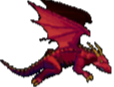
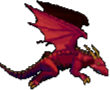
finished the game

diff --git a/menu.py b/menu.py
@@ -1,0 +1,58 @@
+from obj import Obj, Text
+import pygame
+
+class Menu:
+
+    def __init__(self):
+        self.all_sprites = pygame.sprite.Group()
+
+        self.bg = Obj("assets/bg/layer_1.png", -180, 0, 320 * 3.6, 180 * 3.6, self.all_sprites)
+
+        self.bg_2 = Obj("assets/bg/layer_2.png", 0, 260, 320 * 2, 131 * 2, self.all_sprites)
+        self.bg_2_1 = Obj("assets/bg/layer_2.png", 640, 260, 320 * 2, 131 * 2, self.all_sprites)
+
+        self.ground = Obj("assets/ground.png", 0, 400, 360, 360, self.all_sprites)
+        self.ground_2 = Obj("assets/ground.png", 360, 400, 360, 360, self.all_sprites)
+
+        self.get_ready = Obj("assets/getready.png", 80, 140, 615/3, 141/3, self.all_sprites)
+        self.table_score = Obj("assets/score.png", 50, 230, 523/2, 361/2, self.all_sprites)
+        self.button_go = Obj("assets/go.png", 120, 415, 439/4, 181/4, self.all_sprites)
+
+        self.change_scene = False
+
+        self.text_score = Text(100, "0")
+
+    def draw(self, window):
+        self.all_sprites.draw(window)
+        self.text_score.draw(window, 145, 290)
+
+    def update(self, pts):
+        self.all_sprites.update()
+        self.move_bg()
+        self.text_score.text_update(pts)
+
+    def events(self,event):
+        if event.type == pygame.MOUSEBUTTONUP:
+            if self.button_go.rect.collidepoint(pygame.mouse.get_pos()):
+                self.change_scene = True
+
+        if event.type == pygame.KEYDOWN:
+            if event.key == pygame.K_SPACE:
+                self.change_scene = True
+
+
+    def move_bg(self):
+        self.bg_2.rect.x -= 1
+        self.bg_2_1.rect.x -= 1
+        if self.bg_2.rect.x <= -640:
+            self.bg_2.rect.x = 0
+        if self.bg_2_1.rect.x <= 0:
+            self.bg_2_1.rect.x = 640
+
+        self.ground.rect.x -= 5
+        self.ground_2.rect.x -= 5
+
+        if self.ground.rect.x <= -360:
+            self.ground.rect.x = 0
+        if self.ground_2.rect.x <= 0:
+            self.ground_2.rect.x = 360

diff --git a/game.py b/game.py
@@ -18,11 +18,16 @@ class Game:
         self.ground = Obj("assets/ground.png", 0, 400, 360, 360, self.all_sprites)
         self.ground_2 = Obj("assets/ground.png", 360, 400, 360, 360, self.all_sprites)
 
-        self.dragon = Dragon("assets/dragons/dragon1.png", 10, 230, 144, 90, self.all_sprites)
+        self.dragon = Dragon("assets/dragons/dragon0.png", 10, 230, 110, 90, self.all_sprites)
 
         self.score = Text(100, str(self.dragon.pts))
 
+        self.change_scene = False
+
         self.ticks = 0
+        self.timer = 0
+        self.max_score = 0
+        self.check_score()
 
     def draw(self, window):
         self.all_sprites.draw(window)
@@ -30,13 +35,16 @@ class Game:
 
     def update(self):
         self.move_bg()
-        self.all_sprites.update()
 
         if self.dragon.play:
             self.spawn_towers()
             self.dragon.collision_towers(self.towers_group)
             self.dragon.collision_coin(self.coin_group)
             self.score.text_update(str(self.dragon.pts))
+            self.all_sprites.update()
+        else:
+            self.max_scores()
+            self.gameover()
 
     def move_bg(self):
         self.bg_2.rect.x -= 1
@@ -63,3 +71,19 @@ class Game:
             tower_2 = Tower("assets/tower2.png", 360, tower.rect.y - 680, 82, 440, self.all_sprites, self.towers_group)
             coin = Coin("assets/coin/coin0.png", 395, tower.rect.y - 110, 17*2.6, 16*2.6, self.all_sprites, self.coin_group)
 
+    def gameover(self):
+        self.timer += 1
+        if self.timer >= 30:
+            self.change_scene = True
+
+    def max_scores(self):
+        if self.dragon.pts > self.max_score:
+            self.max_score = self.dragon.pts
+            file = open("save.txt", "w")
+            file.write(str(self.max_score))
+            file.close()
+
+    def check_score(self):
+        file = open("save.txt", "r")
+        self.max_score = int(file.read())
+        file.close()

diff --git a/main.py b/main.py
@@ -1,5 +1,6 @@
 import pygame
 from game import Game
+from menu import Menu
 
 pygame.mixer.init()
 
@@ -21,15 +22,24 @@ class Main:
         self.fps = pygame.time.Clock()
 
         self.game = Game()
+        self.menu = Menu()
 
     def events(self):
         for event in pygame.event.get():
             if event.type == pygame.QUIT:
-                self.loop = False
+                pygame.quit()
+            if not self.menu.change_scene:
+                self.menu.events(event)
 
     def draw(self):
-        self.game.draw(self.window)
-        self.game.update()
+        if not self.menu.change_scene:
+            self.menu.draw(self.window)
+            self.menu.update(str(self.game.max_score))
+        elif not self.game.change_scene:
+            self.game.draw(self.window)
+            self.game.update()
+        else:
+            self.loop = False
 
     def update(self):
         while self.loop:
@@ -38,4 +48,6 @@ class Main:
             self.draw()
             pygame.display.flip()
 
-Main().update()
+loop = True
+while loop:
+    Main().update()

diff --git a/obj.py b/obj.py
@@ -78,7 +78,7 @@ class Dragon(Obj):
         if self.frame == 3:
             self.frame = 0
 
-        self.image = pygame.image.load("assets/dragons/dragon" + str(self.frame) + ".PNG")
+        self.image = pygame.image.load("assets/dragon" + str(self.frame) + ".PNG")
 
     def move(self):
         key = pygame.key.get_pressed()
